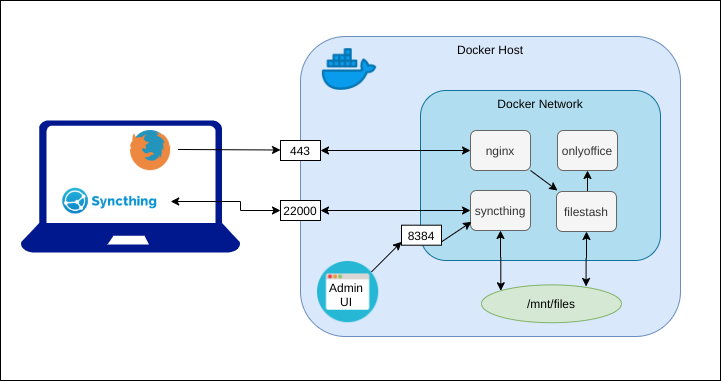
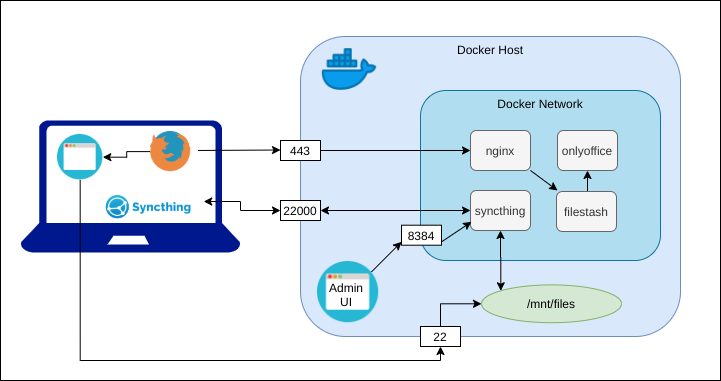
rebuilding site Fri 05 Jun 2020 07:44:48 PM HKT

diff --git a/posts/syncthing-and-filestash/index.html b/posts/syncthing-and-filestash/index.html
@@ -40,9 +40,9 @@ This is still an amazing project, but I have to admit it quite drifted out of my
 However, the scope of this project dramatically changed over time.
 What used to be a simple self-hosted dropbox PHP page has become a big collaborative platform regrouping many applications: files, groupware, visioconference, and so on.
 This is still an amazing project, but I have to admit it quite drifted out of my requirements.">
-<meta itemprop="datePublished" content="2020-06-04T23:46:03&#43;08:00" />
-<meta itemprop="dateModified" content="2020-06-04T23:46:03&#43;08:00" />
-<meta itemprop="wordCount" content="878">
+<meta itemprop="datePublished" content="2020-06-05T19:43:03&#43;08:00" />
+<meta itemprop="dateModified" content="2020-06-05T19:43:03&#43;08:00" />
+<meta itemprop="wordCount" content="894">
 
 
 
@@ -60,7 +60,7 @@ This is still an amazing project, but I have to admit it quite drifted out of my
 
 
 
-    <meta property="article:published_time" content="2020-06-04 23:46:03 &#43;0800 HKT" />
+    <meta property="article:published_time" content="2020-06-05 19:43:03 &#43;0800 HKT" />
 
 
 
@@ -152,9 +152,10 @@ There is also an nginx reverse proxy, getting Let&rsquo;s Encrypt certs and forw
 <ul>
 <li>22000, syncthing sync protocol.</li>
 <li>443, nginx reverse proxy entrypoint.</li>
+<li>22, SSH/SFTP.</li>
 </ul>
 <p>Syncthing binds mount the host folder containing the files to sync.<br>
-Filestash can reach the files via SFTP.</p>
+Filestash loads its frontend onto the browser. The frontend has an SFTP client that can be used to get the files.</p>
 <p><img src="/img/sync-architecture.png" alt="arch"></p>
 <p>The file structure I&rsquo;m using, for reference:</p>
 <pre><code>.
@@ -313,9 +314,9 @@ Filestash is fast, intuitive and mobile friendly. It&rsquo;s actually a PWA, so 
 
         <div class="post-info">
 
-            <p><svg xmlns="http://www.w3.org/2000/svg" width="24" height="24" viewBox="0 0 24 24" fill="none" stroke="currentColor" stroke-width="2" stroke-linecap="round" stroke-linejoin="round" class="feather feather-file-text"><path d="M14 2H6a2 2 0 0 0-2 2v16a2 2 0 0 0 2 2h12a2 2 0 0 0 2-2V8z"></path><polyline points="14 2 14 8 20 8"></polyline><line x1="16" y1="13" x2="8" y2="13"></line><line x1="16" y1="17" x2="8" y2="17"></line><polyline points="10 9 9 9 8 9"></polyline></svg>878 Words</p>
+            <p><svg xmlns="http://www.w3.org/2000/svg" width="24" height="24" viewBox="0 0 24 24" fill="none" stroke="currentColor" stroke-width="2" stroke-linecap="round" stroke-linejoin="round" class="feather feather-file-text"><path d="M14 2H6a2 2 0 0 0-2 2v16a2 2 0 0 0 2 2h12a2 2 0 0 0 2-2V8z"></path><polyline points="14 2 14 8 20 8"></polyline><line x1="16" y1="13" x2="8" y2="13"></line><line x1="16" y1="17" x2="8" y2="17"></line><polyline points="10 9 9 9 8 9"></polyline></svg>894 Words</p>
 
-            <p><svg xmlns="http://www.w3.org/2000/svg" width="24" height="24" viewBox="0 0 24 24" fill="none" stroke="currentColor" stroke-width="2" stroke-linecap="round" stroke-linejoin="round" class="feather feather-calendar"><rect x="3" y="4" width="18" height="18" rx="2" ry="2"></rect><line x1="16" y1="2" x2="16" y2="6"></line><line x1="8" y1="2" x2="8" y2="6"></line><line x1="3" y1="10" x2="21" y2="10"></line></svg>2020-06-04 23:46 &#43;0800</p>
+            <p><svg xmlns="http://www.w3.org/2000/svg" width="24" height="24" viewBox="0 0 24 24" fill="none" stroke="currentColor" stroke-width="2" stroke-linecap="round" stroke-linejoin="round" class="feather feather-calendar"><rect x="3" y="4" width="18" height="18" rx="2" ry="2"></rect><line x1="16" y1="2" x2="16" y2="6"></line><line x1="8" y1="2" x2="8" y2="6"></line><line x1="3" y1="10" x2="21" y2="10"></line></svg>2020-06-05 19:43 &#43;0800</p>
         </div>
 
         

diff --git a/posts/index.html b/posts/index.html
@@ -108,6 +108,16 @@
 
                 <ul class="posts-list">
                         <li class="post-item">
+                            <a href="https://blog.mathevet.xyz/posts/syncthing-and-filestash/">
+                                <span class="post-title">Syncthing &amp; Filestash</span>
+                                <span class="post-day">
+                                    
+                                        Jun 5
+                                    
+                                </span>
+                            </a>
+                        </li>
+                        <li class="post-item">
                             <a href="https://blog.mathevet.xyz/posts/create-your-own-vpn-in-the-cloud/">
                                 <span class="post-title">Create Your Own VPN in the Cloud</span>
                                 <span class="post-day">

diff --git a/posts/create-your-own-vpn-in-the-cloud/index.html b/posts/create-your-own-vpn-in-the-cloud/index.html
@@ -218,6 +218,13 @@ kubectl --namespace &quot;default&quot; exec -it &quot;$POD_NAME&quot; cat &quot
 
                 <div class="pagination__buttons">
                     
+                        <span class="button previous">
+                            <a href="https://blog.mathevet.xyz/posts/syncthing-and-filestash/">
+                                <span class="button__icon">←</span>
+                                <span class="button__text">Syncthing &amp; Filestash</span>
+                            </a>
+                        </span>
+                    
 
                     
                         <span class="button next">
